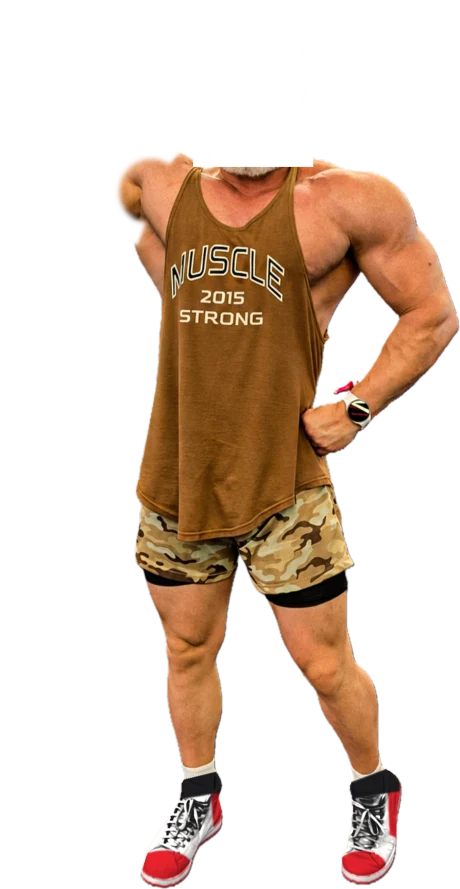
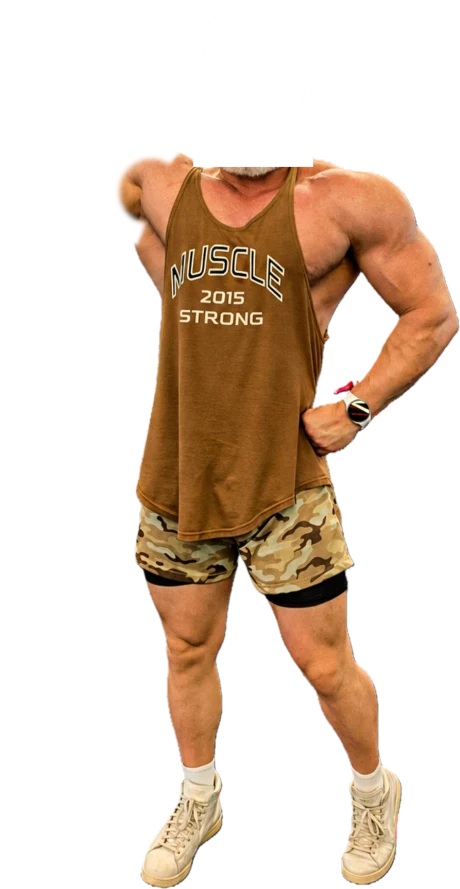
Marombeiro: "Carlos Jr - O Zeus" e os tênis originais de volta
- Onde o Marombeiro é apresentado como Carlos Jr., agora diz "Carlos Jr - O Zeus".
- A pintura dos tênis foi desfeita: as camadas do avatar voltam a ser as da foto.
- Versão 2026-10-15r, cache v45.

Claude-Session: https://claude.ai/code/session_01QzfMY5ycTUhicUNL8zzjLH

Changed region(s): [[0.7304, 0.8504, 0.8826, 1.0], [0.3043, 0.8504, 0.487, 1.0]]

diff --git a/index.html b/index.html
@@ -633,7 +633,7 @@ const LINK_INSTAGRAM = "https://instagram.com/" + INSTAGRAM;
 // diagnóstico do Jarvis — sem isso não há como saber, olhando um relato, se o
 // defeito ainda existe ou se o conserto só não chegou. Já custou caro uma vez.
 // SOBE A CADA PUBLICAÇÃO, junto com o versao.json e o cache do sw.js.
-const VERSAO_APP = "2026-10-15q";
+const VERSAO_APP = "2026-10-15r";
 // Navegadores embutidos (Instagram, Facebook, WhatsApp etc.) costumam apagar os dados salvos
 // Rodando como app instalado: nao faz sentido oferecer instalacao a quem ja
 // instalou, e e o unico jeito de saber, porque nao existe API de "esta instalado".
@@ -9668,7 +9668,7 @@ const MONSTROS_ZUMBI = {
     adiada: "Ouvi a água se agitar ao longe, mas ainda não é hora de acelerar. Fique no confortável.",
   } },
 };
-// O especial do criador: o Marombeiro é o Carlos Jr., dono do Treino Livre,
+// O especial do criador: o Marombeiro é o Carlos Jr - O Zeus, dono do Treino Livre,
 // com a foto dele, a pedido dele, para divulgar o perfil (@carlos.jr.81).
 // O avatar é a foto dele, sem fundo, em três camadas (corpo, braço do bíceps,
 // cabeça) que o CSS e o canvas animam: rosto, cabelo e barba são os da foto,
@@ -10402,7 +10402,7 @@ function placarMissao(s) {
 const MISSAO_MAROMBEIRO = montarMissaoZumbi({
   id: "fuga-do-marombeiro", monstro: "marombeiro", nome: "Fuga do Marombeiro", icone: "🏋", narrador: "Jarvis",
   resumo: "Você faltou ao treino de perna, e o Marombeiro, criador do Treino Livre, descobriu. Ele só para quando vir o treino registrado.",
-  personagens: [{ id: "carlos", nome: "O Marombeiro (Carlos Jr.)", papel: "criador do Treino Livre, barba branca e braço de aço" }, { id: "jarvis", nome: "Jarvis", papel: "o assistente de voz do app" }],
+  personagens: [{ id: "carlos", nome: "O Marombeiro (Carlos Jr - O Zeus)", papel: "criador do Treino Livre, barba branca e braço de aço" }, { id: "jarvis", nome: "Jarvis", papel: "o assistente de voz do app" }],
   fatos: ["garrafa", "registro", "paz"],
   falas: {
     abertura: "Aqui é o Jarvis, do Treino Livre. Notícia ruim: você faltou ao treino de perna, e o Marombeiro descobriu. Barba branca, braço de aço, e ele nunca pula o dia de perna. Aqueça com calma.",
@@ -12128,7 +12128,7 @@ function AvatarMarombeiro({ altura, correndo, estilo }) {
     <img src={src} alt="" draggable="false" style={{ position: "absolute", inset: 0, width: "100%", height: "100%", transformOrigin: pivo, animation: anim }} />
   );
   return (
-    <div className="mb-anima" role="img" aria-label="O Marombeiro: Carlos Jr., criador do Treino Livre"
+    <div className="mb-anima" role="img" aria-label="O Marombeiro: Carlos Jr - O Zeus, criador do Treino Livre"
       style={{ position: "relative", width: larg, height: altura, flexShrink: 0, ...(estilo || {}) }}>
       <div style={{ position: "absolute", left: "10%", right: "10%", bottom: "-2%", height: "5%", borderRadius: "50%",
         background: "radial-gradient(closest-side, rgba(0,0,0,.75), rgba(0,0,0,0))", animation: correndo ? "mbSombra .34s ease-in-out infinite alternate" : "none" }} />
@@ -12549,7 +12549,7 @@ function TelaZumbi({ historico, exPorId, vozCfg, som, onSalvar, onVoltar }) {
                 <div style={{ display: "flex", alignItems: "flex-end", paddingBottom: 6 }}><AvatarMarombeiro altura={200} /></div>
                 <div style={{ flex: 1, display: "flex", flexDirection: "column", justifyContent: "center" }}>
                   <div style={{ fontWeight: 900, fontSize: 16, color: "#7CFF3C" }}>🏋 O Marombeiro</div>
-                  <div style={{ fontSize: 12.5, color: "var(--cinza)", lineHeight: 1.5, margin: "6px 0 10px" }}>É o Carlos Jr., criador do Treino Livre. Barba branca, braço de aço e nenhum dia de perna perdido.</div>
+                  <div style={{ fontSize: 12.5, color: "var(--cinza)", lineHeight: 1.5, margin: "6px 0 10px" }}>É o Carlos Jr - O Zeus, criador do Treino Livre. Barba branca, braço de aço e nenhum dia de perna perdido.</div>
                   <a href={LINK_INSTAGRAM} target="_blank" rel="noopener" style={{ ...S.btn, display: "block", boxSizing: "border-box", width: "100%", textDecoration: "none", textAlign: "center", padding: "10px 6px", fontSize: 13 }}>📸 Seguir @{INSTAGRAM}</a>
                 </div>
               </div>

diff --git a/sw.js b/sw.js
@@ -1,5 +1,5 @@
 // Treino Livre - Service Worker (modo offline)
-const CACHE = "treinolivre-v44";
+const CACHE = "treinolivre-v45";
 const CACHE_VOZ = "treinolivre-voz";
 // As falas gravadas do Monster, Run! (vozes/*.mp3): baixadas quando a história
 // começa e guardadas fora do cache da versão, para não sumirem a cada atualização.

diff --git a/CLAUDE.md b/CLAUDE.md
@@ -206,7 +206,7 @@ GitHub e siga daí.
 | Arquivo | Papel |
 |---|---|
 | `index.html` | O app inteiro: HTML, CSS e um `<script type="text/babel">` com todo o React |
-| `sw.js` | Service worker: modo offline. Cache `treinolivre-vN` (hoje v44) |
+| `sw.js` | Service worker: modo offline. Cache `treinolivre-vN` (hoje v45) |
 | `manifest.json` | Instalação como app (PWA), atalhos do ícone |
 | `versao.json` | Só `{"versao":"…"}`. É como o app descobre que saiu versão nova |
 | `icon-192.png`, `icon-512.png`, `icon-maskable-512.png`, `apple-touch-icon.png` | Ícones gerados por script (gradiente da marca + halter) |
@@ -1318,7 +1318,7 @@ Os monstros de cinema ficam num grupo à parte na configuração e têm uma
 história cada (os clássicos têm pelo menos duas).
 
 ### O especial do criador: Fuga do Marombeiro (`grupo: "especial"`)
-**O Marombeiro é o dono do app, Carlos Jr., com a foto dele, a pedido dele,
+**O Marombeiro é o dono do app, Carlos Jr - O Zeus, com a foto dele, a pedido dele,
 para divulgar o perfil.** Você faltou ao treino de perna, ele descobriu, e só
 para quando vir o treino registrado no Treino Livre. O Jarvis narra. O fim
 completo convida a seguir o Instagram.
@@ -1334,10 +1334,8 @@ completo convida a seguir o Instagram.
   para girar alguns graus não abrir buraco. Os pivôs (em % da imagem) estão em
   `AVATAR_MAROMBEIRO`.
 - **Como as camadas foram feitas**: a foto que o dono mandou já veio sem fundo
-  (893×1726, pose de bíceps). Os tênis brancos foram pintados no esquema
-  "Bred Toe" do Jordan 1, a pedido dele (biqueira, calcanhar e solado vermelhos,
-  gola e lingueta pretas, laterais brancas), preservando dobras e sombras e
-  **sem logo de marca**. O MediaPipe (`selfie_multiclass`) separou
+  (893×1726, pose de bíceps). Os tênis são os da foto: a pintura no esquema "Bred Toe"
+  foi testada e desfeita a pedido dele. O MediaPipe (`selfie_multiclass`) separou
   cabelo, rosto e óculos (a cabeça); o braço é um polígono acima da axila.
   Para refazer com outra foto, o roteiro está descrito no histórico desta
   sessão: segmentar, cortar na altura do fim da barba, exportar WebP com alfa.
